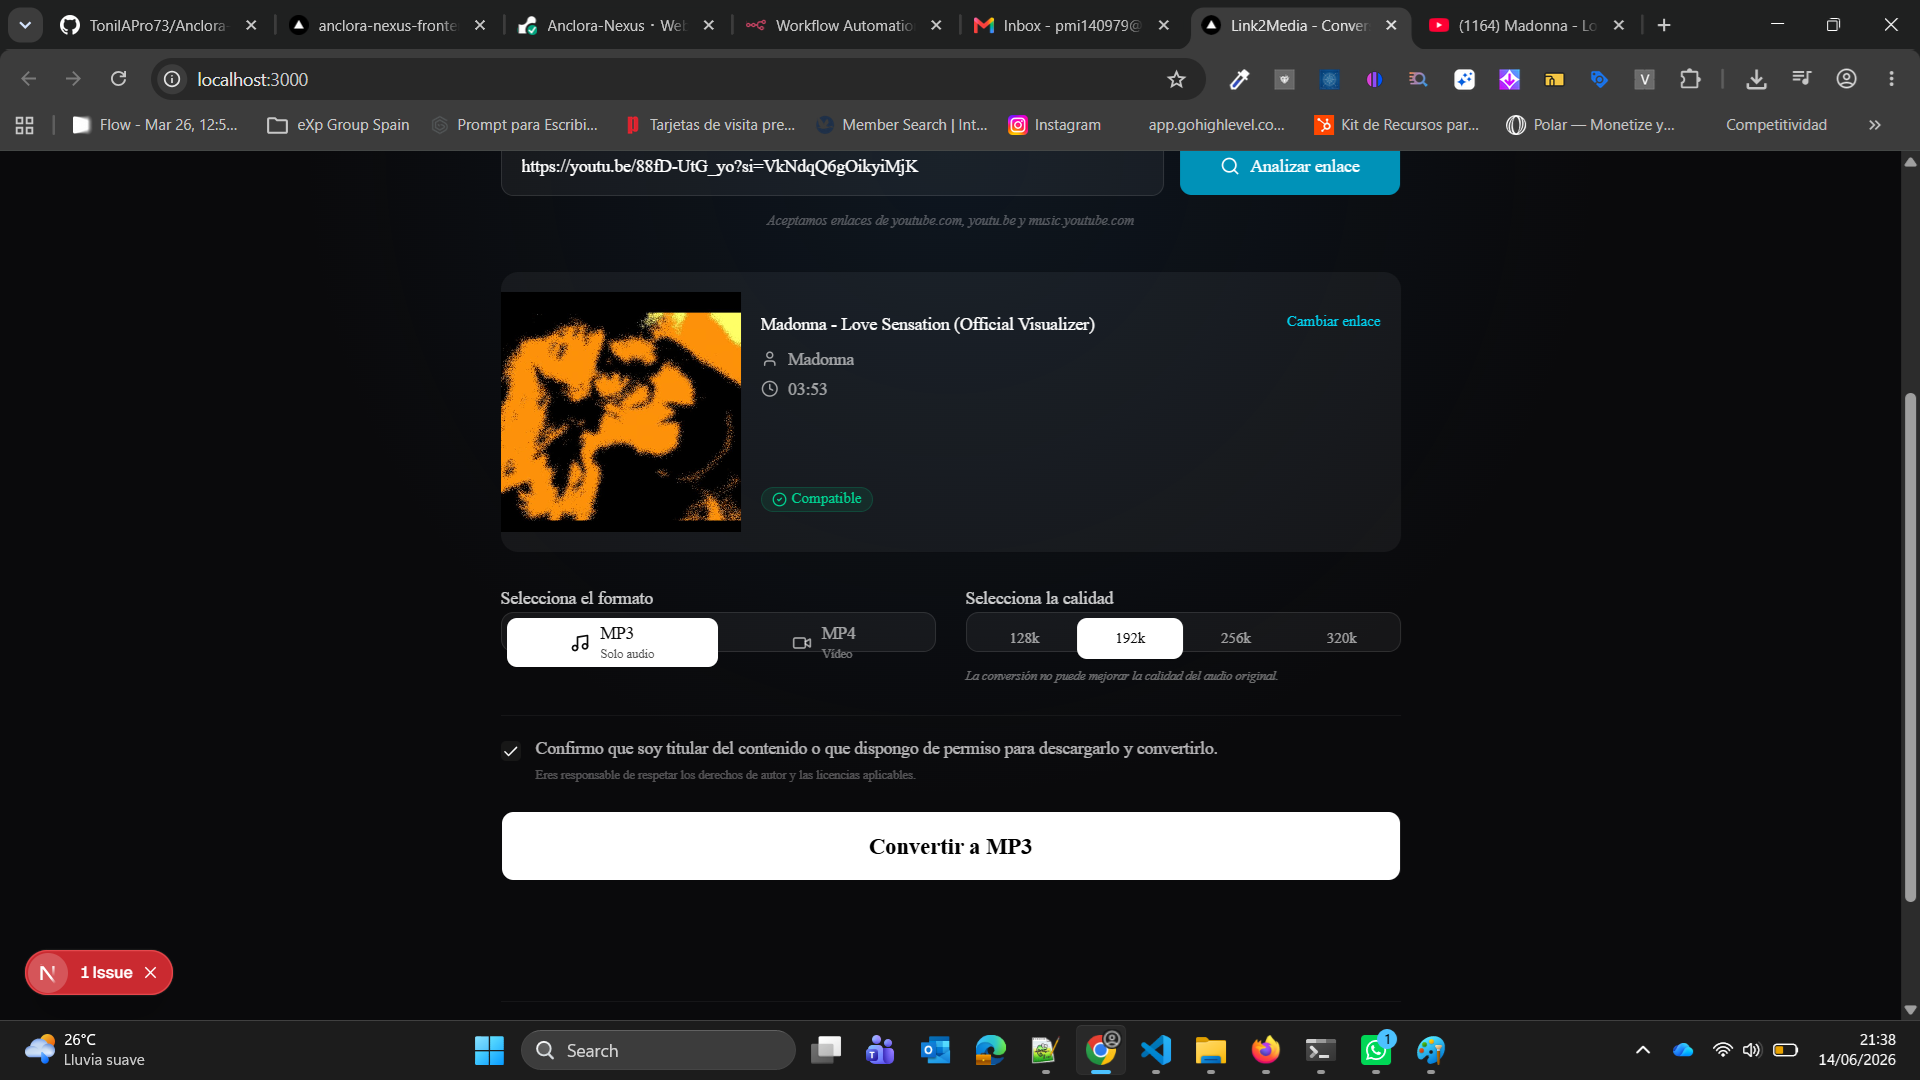
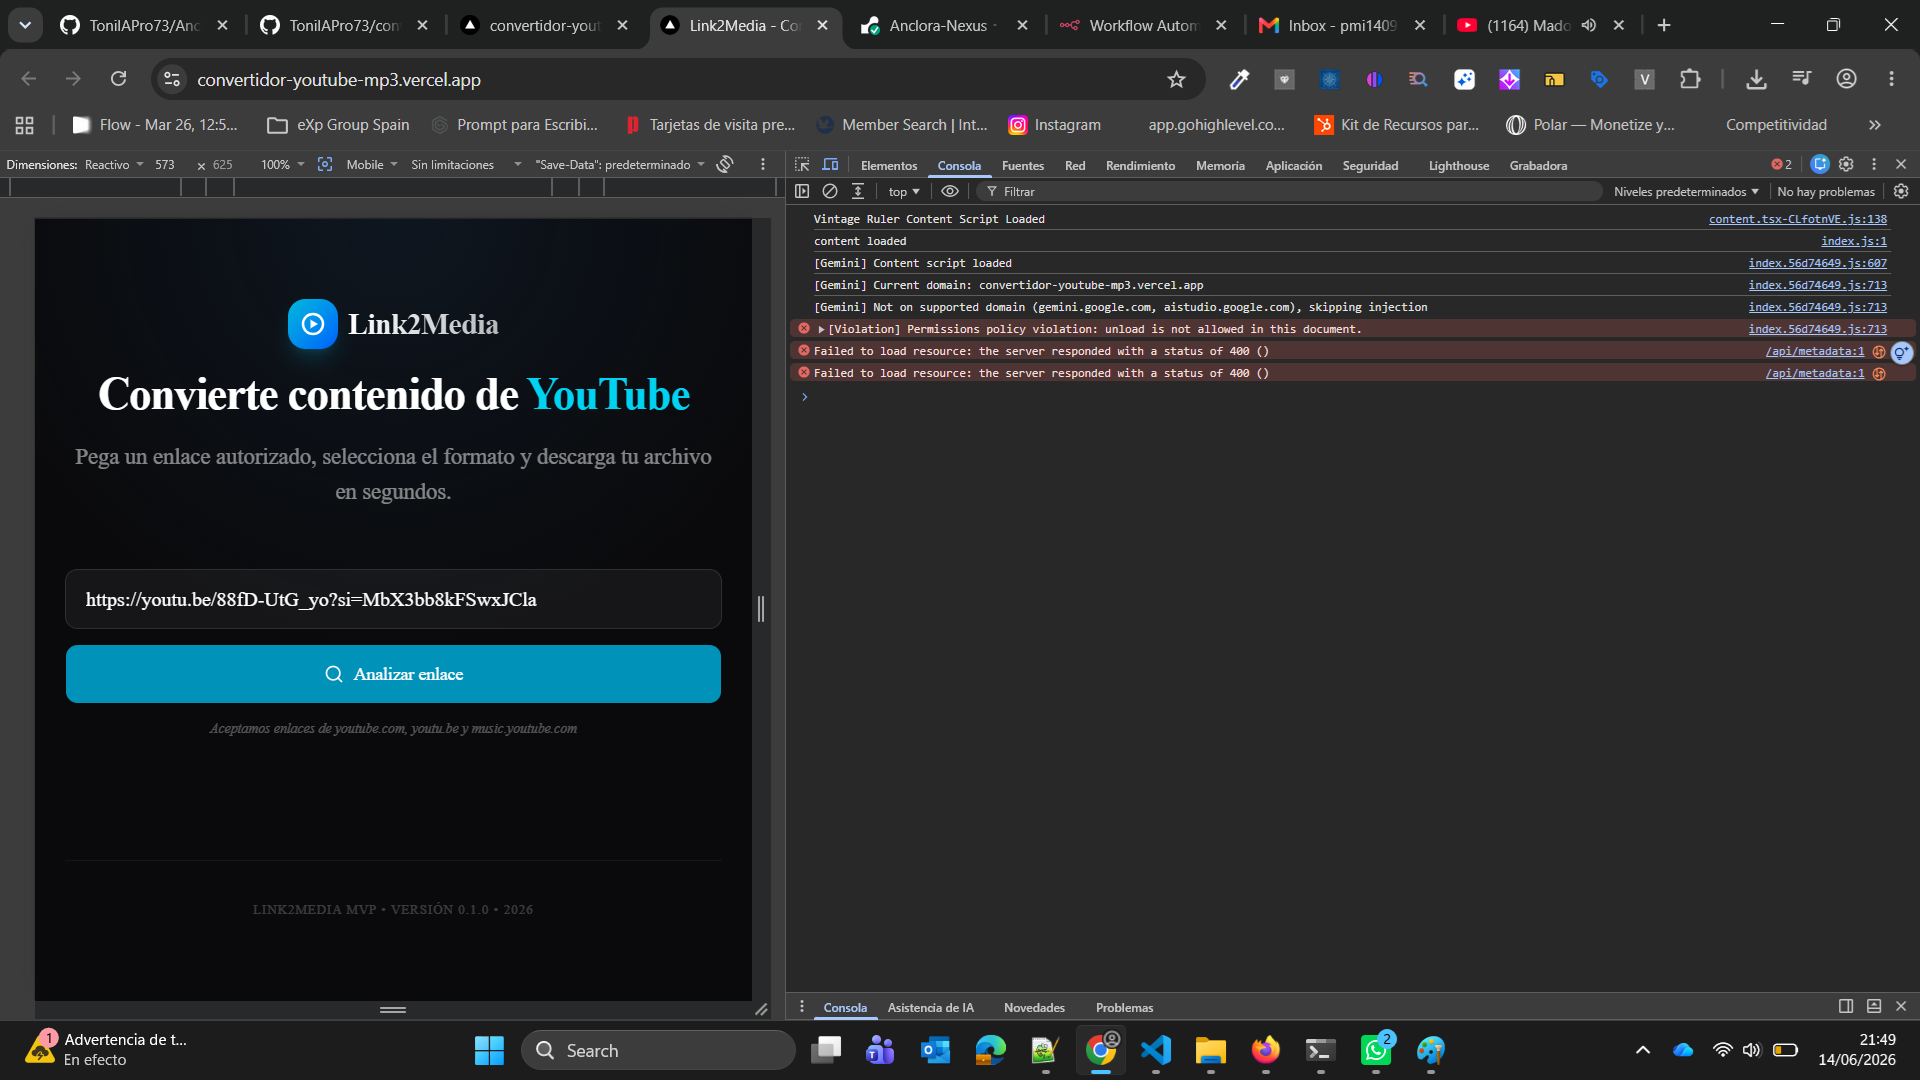
fix: improve error reporting for missing system dependencies
- Handle ENOENT errors when spawning yt-dlp/ffmpeg\n- Return 500 status code for internal/dependency errors\n- Add descriptive error message for Vercel incompatibility

diff --git a/src/lib/media/metadata.ts b/src/lib/media/metadata.ts
@@ -73,8 +73,12 @@ export async function getVideoMetadata(url: string): Promise<MetadataResponse> {
       }
     });
 
-    process.on("error", () => {
-      reject(new AppError(ERROR_CODES.INTERNAL_ERROR, "Error al ejecutar yt-dlp."));
+    process.on("error", (err: any) => {
+      if (err.code === "ENOENT") {
+        reject(new AppError(ERROR_CODES.DEPENDENCY_MISSING, ERROR_MESSAGES.DEPENDENCY_MISSING, 500));
+      } else {
+        reject(new AppError(ERROR_CODES.INTERNAL_ERROR, "Error al ejecutar yt-dlp.", 500));
+      }
     });
   });
 }

diff --git a/src/lib/media/processor.ts b/src/lib/media/processor.ts
@@ -97,10 +97,14 @@ export async function processJob(jobId: string) {
       }
     });
 
-    process.on("error", () => {
+    process.on("error", (err: any) => {
+      let errorMsg = "Error al iniciar el proceso de conversión.";
+      if (err.code === "ENOENT") {
+        errorMsg = "Error: Dependencias no encontradas (yt-dlp/ffmpeg). Vercel no es compatible.";
+      }
       jobManager.updateJob(jobId, { 
         status: "failed", 
-        error: "Error al iniciar el proceso de conversión.",
+        error: errorMsg,
         stage: "Error",
       });
     });

diff --git a/src/lib/errors.ts b/src/lib/errors.ts
@@ -45,7 +45,7 @@ export const ERROR_MESSAGES: Record<ErrorCode, string> = {
   CONTENT_RESTRICTED: 'El contenido tiene restricciones de edad o región.',
   DURATION_LIMIT_EXCEEDED: 'El vídeo excede la duración máxima permitida.',
   FORMAT_NOT_AVAILABLE: 'El formato solicitado no está disponible para este vídeo.',
-  DEPENDENCY_MISSING: 'Error interno: faltan dependencias en el servidor.',
+  DEPENDENCY_MISSING: 'Error: No se han encontrado las dependencias necesarias (yt-dlp/ffmpeg) en el servidor. Vercel no es compatible sin configuración adicional.',
   RATE_LIMITED: 'Demasiadas peticiones. Por favor, espera un momento.',
   JOB_ALREADY_ACTIVE: 'Ya tienes un proceso activo.',
   QUEUE_FULL: 'El servidor está saturado. Inténtalo más tarde.',
@@ -59,3 +59,4 @@ export const ERROR_MESSAGES: Record<ErrorCode, string> = {
   CANCELLED: 'El proceso ha sido cancelado.',
   INTERNAL_ERROR: 'Ocurrió un error interno en el servidor.',
 };
+